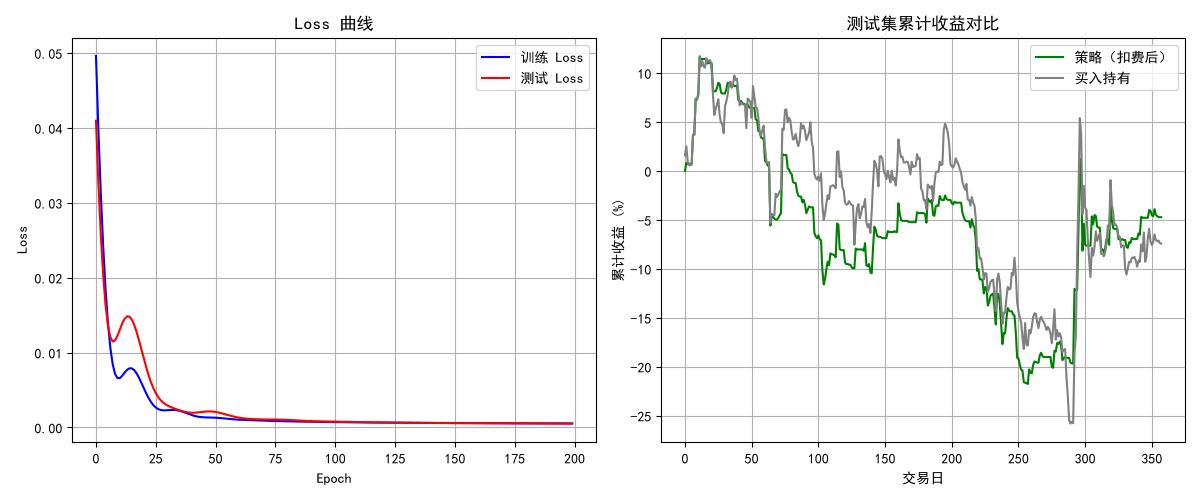
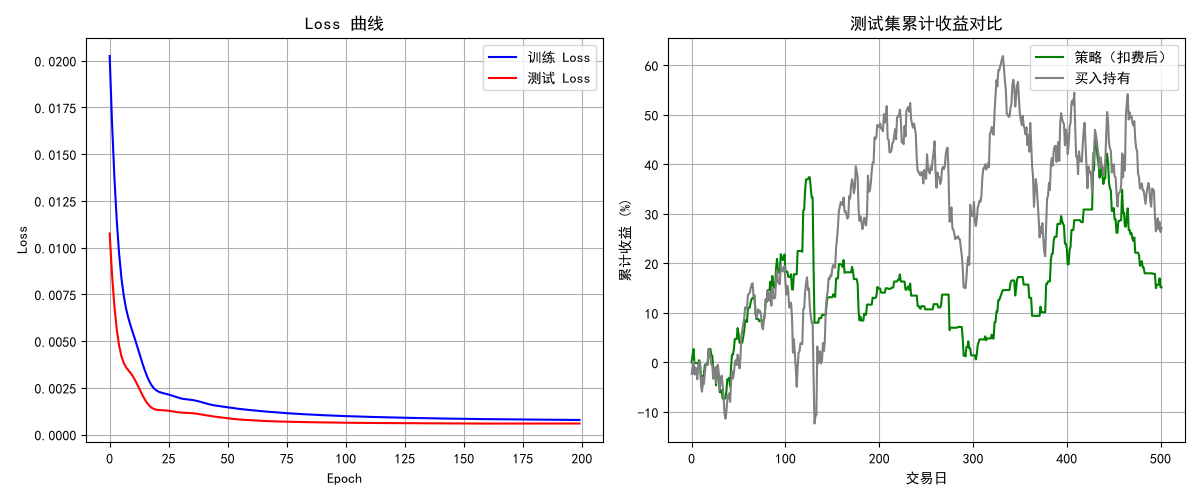
Day12.5: 用神经网络预测股票收益率并回测，理解时间切分和交易成本

diff --git a/day12_5_stock.py b/day12_5_stock.py
@@ -4,22 +4,33 @@ import torch
 import torch.nn as nn
 import akshare as ak
 import matplotlib.pyplot as plt
+import yfinance as yf
 
 plt.rcParams["font.sans-serif"] = ["SimHei"]
 plt.rcParams["axes.unicode_minus"] = False
 
+# print("正在下载数据...")
+# df = ak.stock_zh_a_hist(
+#     symbol = "600519",
+#     period = "daily",
+#     start_date = "20200101",
+#     end_date = "20241231",
+#     adjust = "qfq",
+# )
+# df = df.rename(columns = {"日期": "date", "收盘": "close", "成交量": "volume"})
+# df["date"] = pd.to_datetime(df["date"])
+# df = df.sort_values("date").reset_index(drop = True)
+# print(f"数据量：{len(df)} 条，从 {df['date'].iloc[0].date()} 到 {df['date'].iloc[-1].date()}")
+
 print("正在下载数据...")
-df = ak.stock_zh_a_hist(
-    symbol = "600519",
-    period = "daily",
-    start_date = "20200101",
-    end_date = "20241231",
-    adjust = "qfq",
-)
-df = df.rename(columns = {"日期": "date", "收盘": "close", "成交量": "volume"})
+# 用苹果公司 AAPL 代替贵州茅台
+df = yf.download("AAPL", start="2020-01-01", end="2026-09-27", auto_adjust=True)
+df = df.reset_index()
+df = df.rename(columns={"Date": "date", "Close": "close", "Volume": "volume"})
 df["date"] = pd.to_datetime(df["date"])
-df = df.sort_values("date").reset_index(drop = True)
+df = df.sort_values("date").reset_index(drop=True)
 print(f"数据量：{len(df)} 条，从 {df['date'].iloc[0].date()} 到 {df['date'].iloc[-1].date()}")
+
 df["ret_1"] = df["close"].pct_change(1)
 df["ret_5"] = df["close"].pct_change(5)
 df["ret_20"] = df["close"].pct_change(20)
